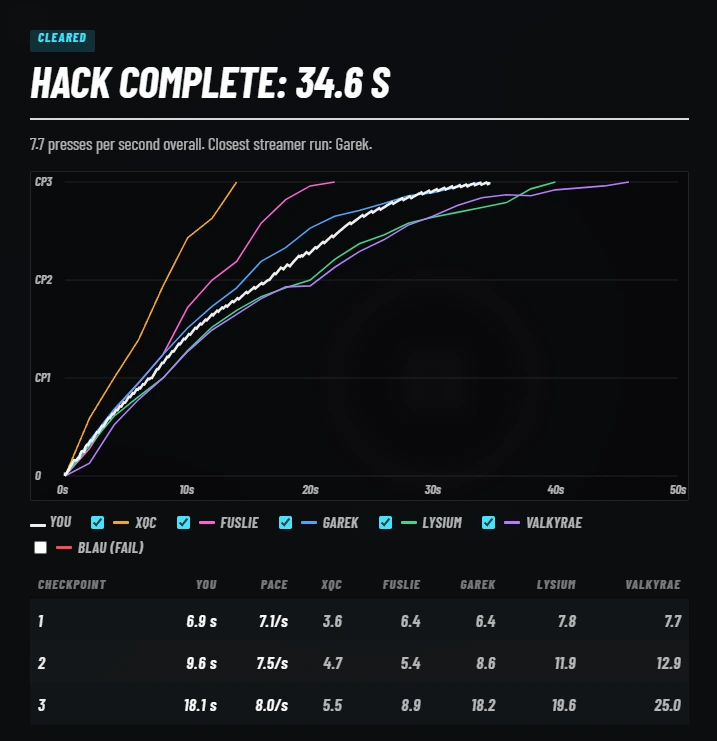
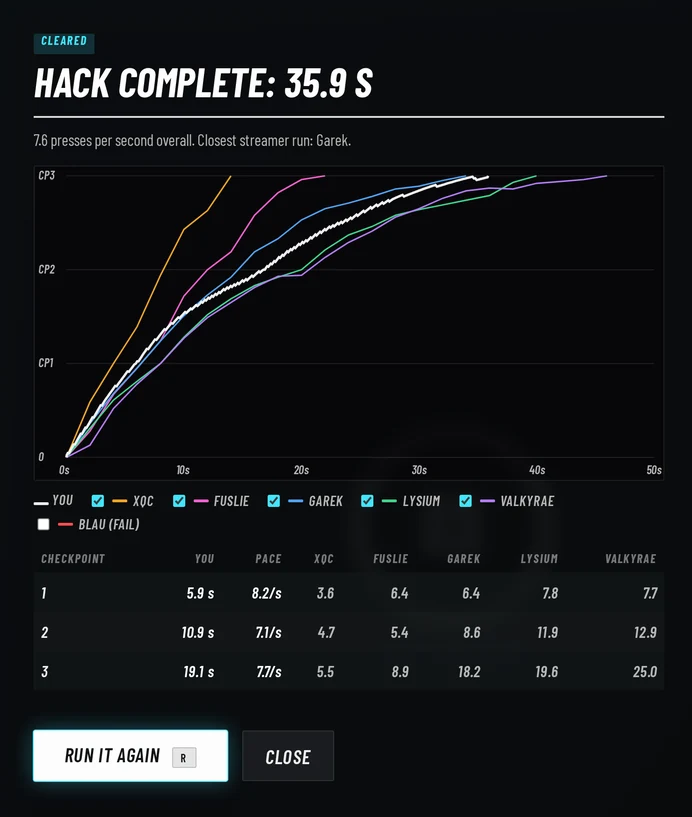
atm-hack: MAT-736 — the figure set redone at 1x and 2x
Four figures re-exported, each WebP and PNG at 1x and 2x. atm-results,
atm-progress and atm-checkpoints replace the soft 1x-only versions;
atm-attempts is new and closes the last figure the original draft asked for.
The charts are dark-themed now and label Garek, so the Gloryon gloss has
nothing left to explain — that name is gone from site/ and from the
case-study doc, and survives only in the devlog.

atm-description was re-exported too, as a tighter 386x399 crop; the old
518x399 carried a strip of game background down its left edge. 386 is the
source's native width, so it stays 1x.

atm-results needed its own sizes. At 692x817 the height cap binds before the
column does — it paints 434x512 at desktop, not 692 wide — so its sizes says
434px where the others say 692px. Measured, since image-conventions §2 is
explicit that getting this wrong is silent.

Captions: the results caption names the 35.9s clear, the progress caption
calls the fails dashed rather than flat, and the checkpoints caption softens
"for everyone" to "for almost everyone" — Fuslie's CP2 beat her CP1, so the
old line was not true.

.gitignore now ignores dev/gta-atm-media/* with one exception for
Screenshot (Gameplay).png, the 2043x1208 master every ring crop came from.
13 files ignored, that one tracked, matching dev/kumon-media and
dev/ollae-media.

Still open: no 2x for atm-ring or atm-description, both blocked on new
captures rather than on work.

diff --git a/site/projects/atm-hack.html b/site/projects/atm-hack.html
@@ -16,7 +16,7 @@
   <noscript><link rel="stylesheet" href="https://fonts.googleapis.com/css2?family=DM+Mono:wght@400;500&family=DM+Sans:ital,wght@0,400;0,500;0,700;1,400&family=DM+Serif+Display&display=swap"></noscript>
 
   <link rel="stylesheet" href="/styles/tokens.css?v=2">
-  <link rel="stylesheet" href="/styles/style.css?v=12">
+  <link rel="stylesheet" href="/styles/style.css?v=13">
 </head>
 <body>
   <div class="spotlight" aria-hidden="true"></div>
@@ -43,7 +43,7 @@
       <ul role="list" class="tags" aria-label="Tech stack">
         <li>HTML</li>
         <li>CSS</li>
-        <li>Vanilla JS</li>
+        <li>JavaScript</li>
         <li>Canvas</li>
         <li>Google Apps Script</li>
         <li>Google Sheets</li>
@@ -91,20 +91,32 @@
       <p>The UI stays close to the real one, which was less work than it sounds: NoPixel's font is Barlow, a Google Font, and the hack itself is a ring, a key cap, and three checkpoint dashes. Getting those proportions right matters more than any effect — it's the thing people recognise from stream.</p>
 
       <figure class="media-figure">
-        <img src="/assets/atm-hack/atm-description.webp" width="518" height="399" loading="lazy" decoding="async"
-             alt="The game's side panel, headed FAN-MADE HACK TRAINER above the title ATM HACK. It explains: mash E to fill the ring and clear three checkpoints before time runs out, the ring pushes back harder the fuller it gets, every checkpoint is tougher than the last, and your run is compared against streamers who passed and failed it on stream. Below, a FASTEST CLEARS · V1 heading reads &ldquo;No clears yet. Be the first.&rdquo;">
+        <picture>
+          <source type="image/webp" srcset="/assets/atm-hack/atm-description.webp">
+          <img src="/assets/atm-hack/atm-description.png"
+               width="386" height="399" loading="lazy" decoding="async"
+               alt="The game's side panel, headed FAN-MADE HACK TRAINER above the title ATM HACK. It explains: mash E to fill the ring and clear three checkpoints before time runs out, the ring pushes back harder the fuller it gets, every checkpoint is tougher than the last, and your run is compared against streamers who passed and failed it on stream. Below, a FASTEST CLEARS · V1 heading reads &ldquo;No clears yet. Be the first.&rdquo;">
+        </picture>
         <figcaption>Game instructions</figcaption>
       </figure>
 
       <p>After each run, the game compares it to the streamer runs we studied.</p>
 
       <figure class="media-figure">
-        <a class="figure-zoom" href="/assets/atm-hack/atm-results.webp" data-zoom>
+        <a class="figure-zoom" href="/assets/atm-hack/atm-results@2x.webp" data-zoom>
           <span class="sr-only">View full-size: </span>
-          <img src="/assets/atm-hack/atm-results.webp" width="717" height="741" loading="lazy" decoding="async"
-               alt="The results screen: a CLEARED tag above &ldquo;HACK COMPLETE: 34.6 S&rdquo; and the line &ldquo;7.7 presses per second overall. Closest streamer run: Garek.&rdquo; A chart plots ring progress against time from 0 to 50 seconds, with the player's white curve running through five coloured streamer curves toward CP3, and Blau's failed run unchecked in the legend. A table under it lists each checkpoint: the player's time, their pace, and the same checkpoint for xQc, Fuslie, Garek, Lysium, and Valkyrae.">
+          <picture>
+            <source type="image/webp"
+                    srcset="/assets/atm-hack/atm-results.webp 692w, /assets/atm-hack/atm-results@2x.webp 1384w"
+                    sizes="(min-width: 756px) 434px, calc(100vw - 4rem)">
+            <img src="/assets/atm-hack/atm-results.png"
+                 srcset="/assets/atm-hack/atm-results.png 692w, /assets/atm-hack/atm-results@2x.png 1384w"
+                 sizes="(min-width: 756px) 434px, calc(100vw - 4rem)"
+                 width="692" height="817" loading="lazy" decoding="async"
+                 alt="The ATM Hack results screen after Matt's 35.9-second clear. A Cleared badge and the title Hack complete: 35.9 s sit above the line: 7.6 presses per second overall, closest streamer run Garek. A chart plots progress from 0 to CP3 over 50 seconds, with Matt's white line among colored lines for xQc, Fuslie, Garek, Lysium and Valkyrae, finishing just after Garek's. Below, a table lists Matt's checkpoint times of 5.9, 10.9 and 19.1 seconds at 8.2, 7.1 and 7.7 presses per second next to each streamer's times, then Run it again and Close buttons.">
+          </picture>
         </a>
-        <figcaption>Compare results with streamers</figcaption>
+        <figcaption>The results screen after my 35.9-second clear, plotted against the streamers&rsquo; runs.</figcaption>
       </figure>
 
       <h3>Engineering</h3>
@@ -113,23 +125,39 @@
       <p>I pulled clips of seven attempts — five clears and two fails — and had Claude track how full the ring was in every frame. The pattern came out clearly. Each press adds a small chunk, the ring slides back constantly, and the slide-back gets stronger both as the ring fills and with each checkpoint passed.</p>
 
       <figure class="media-figure">
-        <a class="figure-zoom" href="/assets/atm-hack/atm-progress.webp" data-zoom>
+        <a class="figure-zoom" href="/assets/atm-hack/atm-progress@2x.webp" data-zoom>
           <span class="sr-only">View full-size: </span>
-          <img src="/assets/atm-hack/atm-progress.webp" width="777" height="401" loading="lazy" decoding="async"
-               alt="A line chart titled &ldquo;ATM hack progress over time (checkpoints cleared + current ring fill)&rdquo;, plotting progress from 0 to 3 against seconds since the hack UI appeared, out to 120 seconds. Five winning runs climb to 3.0 and stop, between 14 and 46 seconds. The two failing runs climb quickly to about 2.8 and then stay flat, wobbling just under the finish for the rest of the clip.">
+          <picture>
+            <source type="image/webp"
+                    srcset="/assets/atm-hack/atm-progress.webp 800w, /assets/atm-hack/atm-progress@2x.webp 1600w"
+                    sizes="(min-width: 756px) 692px, calc(100vw - 4rem)">
+            <img src="/assets/atm-hack/atm-progress.png"
+                 srcset="/assets/atm-hack/atm-progress.png 800w, /assets/atm-hack/atm-progress@2x.png 1600w"
+                 sizes="(min-width: 756px) 692px, calc(100vw - 4rem)"
+                 width="800" height="450" loading="lazy" decoding="async"
+                 alt="Line chart of progress over time for seven streamer clips, from 0 to CP3 across 120 seconds. Solid lines for xQc, Fuslie, Garek, Lysium and Valkyrae climb to CP3 between about 14 and 46 seconds, xQc steepest. Dashed lines for Blau and an unknown streamer climb to just under CP3, then run nearly flat for over a minute, labeled: both fails stall short of CP3 for over a minute. A legend on the right marks both as timed out.">
+          </picture>
         </a>
-        <figcaption>Seven clips. The two flat lines at the top are the fails. Gloryon is Garek's character name.</figcaption>
+        <figcaption>Seven clips. The two dashed lines that flatten out near the top are the fails.</figcaption>
       </figure>
 
       <p>That chart settles what failing actually is. Neither fail was slow: both reached the last ring quickly, then sat at 70–90% of it for more than a minute and a half while the timer ran out. I hypothesized that to beat the last checkpoint, the player must reach a specific speed.</p>
 
       <figure class="media-figure">
-        <a class="figure-zoom" href="/assets/atm-hack/atm-checkpoints.webp" data-zoom>
+        <a class="figure-zoom" href="/assets/atm-hack/atm-checkpoints@2x.webp" data-zoom>
           <span class="sr-only">View full-size: </span>
-          <img src="/assets/atm-hack/atm-checkpoints.webp" width="772" height="356" loading="lazy" decoding="async"
-               alt="A table headed &ldquo;Checkpoint times (seconds)&rdquo; with columns for player, CP1, CP2, CP3 and total. xQc 3.6, 4.7, 5.5, total 13.8. Fuslie 6.4, 5.4, 8.9, total 20.7. Gloryon 6.4, 8.6, 18.2, total 33.2. Lysium 7.8, 11.9, 19.6, total 39.3. Valkyrae 7.7, 12.9, 25.0, total 45.6. Blau 8.6, 11.6, then stalled about 100 seconds, fail. Unknown 6.0, 9.5, then stalled about 86 seconds, fail.">
+          <picture>
+            <source type="image/webp"
+                    srcset="/assets/atm-hack/atm-checkpoints.webp 800w, /assets/atm-hack/atm-checkpoints@2x.webp 1600w"
+                    sizes="(min-width: 756px) 692px, calc(100vw - 4rem)">
+            <img src="/assets/atm-hack/atm-checkpoints.png"
+                 srcset="/assets/atm-hack/atm-checkpoints.png 800w, /assets/atm-hack/atm-checkpoints@2x.png 1600w"
+                 sizes="(min-width: 756px) 692px, calc(100vw - 4rem)"
+                 width="800" height="450" loading="lazy" decoding="async"
+                 alt="Grouped bar chart of time per checkpoint for seven streamers, CP1 to CP3 in three shades of cyan. xQc 3.6, 4.7, 5.5 seconds; Fuslie 6.4, 5.4, 8.9; Garek 6.4, 8.6, 18.2; Lysium 7.8, 11.9, 19.6; Valkyrae 7.7, 12.9, 25.0; Blau 8.6, 11.6; unknown streamer 6.0, 9.5. Blau's and the unknown streamer's CP3 bars are red hatched outlines reaching the top of the chart, labeled stalled ~100 s and stalled ~86 s.">
+          </picture>
         </a>
-        <figcaption>The same seven runs as numbers. Each checkpoint costs more than the one before it, for everyone.</figcaption>
+        <figcaption>The same seven runs as numbers. Each checkpoint costs more than the one before it, for almost everyone.</figcaption>
       </figure>
 
       <h4>Listened to the keyboards</h4>
@@ -175,6 +203,23 @@
       <p>The game is launched, and the Reddit post was successful!</p>
       <p>The post brought in <strong>626 verified runs from 249 players</strong> overnight, 339 of them in a single two-hour burst, and they are still coming in. 90% of those runs cleared, and 84% of players cleared on their first try — the same range as the streamers, where 5 of 7 passed. That is the shape I wanted: most people get through it, and the last ring is where it turns frustrating.</p>
 
+
+      <figure class="media-figure">
+        <a class="figure-zoom" href="/assets/atm-hack/atm-attempts@2x.webp" data-zoom>
+          <span class="sr-only">View full-size: </span>
+          <picture>
+            <source type="image/webp"
+                    srcset="/assets/atm-hack/atm-attempts.webp 692w, /assets/atm-hack/atm-attempts@2x.webp 1384w"
+                    sizes="(min-width: 756px) 692px, calc(100vw - 4rem)">
+            <img src="/assets/atm-hack/atm-attempts.png"
+                 srcset="/assets/atm-hack/atm-attempts.png 692w, /assets/atm-hack/atm-attempts@2x.png 1384w"
+                 sizes="(min-width: 756px) 692px, calc(100vw - 4rem)"
+                 width="692" height="179" loading="lazy" decoding="async"
+                 alt="The game's Everyone's attempts panel for v1: three tiles reading 566 attempts, 508 cleared in cyan, and 58 timed out in red, above a bar about nine-tenths cyan and one-tenth red, and the line: 90% of attempts clear the hack.">
+          </picture>
+        </a>
+        <figcaption>Everyone&rsquo;s attempts as of September 19, 2026: 566 verified runs, 90% cleared.</figcaption>
+      </figure>
       <div class="embed embed--reddit">
         <blockquote class="reddit-embed-bq" data-embed-height="240">
           <a href="https://www.reddit.com/r/NoPixel/comments/1wk9xai/i_measured_streamer_footage_to_recreate_the/">I measured streamer footage to recreate the NoPixel ATM button masher hack - try it!!</a><br> by

diff --git a/docs/case-study-atm-hack.md b/docs/case-study-atm-hack.md
@@ -60,7 +60,7 @@ The UI stays close to the real one, which was less work than it sounds: NoPixel'
 
 After each run, the game compares it to the streamer runs we studied.
 
-*Figure: the results screen. Caption — "Compare results with streamers"*
+*Figure: the results screen. Caption — "The results screen after my 35.9-second clear, plotted against the streamers' runs."*
 
 ### Engineering
 
@@ -68,11 +68,11 @@ After each run, the game compares it to the streamer runs we studied.
 
 I pulled clips of seven attempts — five clears and two fails — and had Claude track how full the ring was in every frame. The pattern came out clearly. Each press adds a small chunk, the ring slides back constantly, and the slide-back gets stronger both as the ring fills and with each checkpoint passed.
 
-*Figure: progress-over-time chart. Caption — "Seven clips. The two flat lines at the top are the fails. Gloryon is Garek's character name."*
+*Figure: progress-over-time chart. Caption — "Seven clips. The two dashed lines that flatten out near the top are the fails."*
 
 That chart settles what failing actually is. Neither fail was slow: both reached the last ring quickly, then sat at 70–90% of it for more than a minute and a half while the timer ran out. I hypothesized that to beat the last checkpoint, the player must reach a specific speed.
 
-*Figure: checkpoint times table. Caption — "The same seven runs as numbers. Each checkpoint costs more than the one before it, for everyone."*
+*Figure: checkpoint times table. Caption — "The same seven runs as numbers. Each checkpoint costs more than the one before it, for almost everyone."*
 
 #### Listened to the keyboards
 
@@ -101,6 +101,8 @@ Rather than argue with the model, I became the control group. I tested out the g
 The game is launched, and the Reddit post was successful!
 
 The post brought in **626 verified runs from 249 players** overnight, 339 of them in a single two-hour burst, and they are still coming in. 90% of those runs cleared, and 84% of players cleared on their first try — the same range as the streamers, where 5 of 7 passed. That is the shape I wanted: most people get through it, and the last ring is where it turns frustrating.
+
+*Figure: the Everyone's attempts panel. Caption — "Everyone's attempts as of September 19, 2026: 566 verified runs, 90% cleared."*
 
 *Reddit embed: the r/NoPixel post, "I measured streamer footage to recreate the
 NoPixel ATM button masher hack - try it!!" by u/dolfinz95. Click-to-load —
@@ -131,32 +133,35 @@ The best part was watching the Google Sheet fill up as people from the community
 Assets live in `site/assets/atm-hack/`. All are my own charts and screenshots —
 no stream footage.
 
-| # | File | Size | Where | Zoom |
+| # | File | Size (1× / 2×) | Where | Zoom |
 |---|---|---|---|---|
-| — | `atm-ring.webp` | 1280×720 | embed poster, above the fold (`fetchpriority="high"`) | no |
-| 1 | `atm-description.webp` | 518×399 | Design | no |
-| 2 | `atm-results.webp` | 717×741 | Design | yes |
-| 3 | `atm-progress.webp` | 777×401 | Watched the ring | yes |
-| 4 | `atm-checkpoints.webp` | 772×356 | Watched the ring | yes |
-| 5 | `atm-double-click{,@2x}.{webp,png}` | 800×450, 1600×900 | Tested it on myself | yes |
+| — | `atm-ring.webp` | 1280×720 / — | embed poster, above the fold (`fetchpriority="high"`) | no |
+| 1 | `atm-description.{webp,png}` | 386×399 / — | Design | no |
+| 2 | `atm-results{,@2x}.{webp,png}` | 692×817 / 1384×1635 | Design | yes |
+| 3 | `atm-progress{,@2x}.{webp,png}` | 800×450 / 1600×900 | Watched the ring | yes |
+| 4 | `atm-checkpoints{,@2x}.{webp,png}` | 800×450 / 1600×900 | Watched the ring | yes |
+| 5 | `atm-double-click{,@2x}.{webp,png}` | 800×450 / 1600×900 | Tested it on myself | yes |
+| 6 | `atm-attempts{,@2x}.{webp,png}` | 692×179 / 1384×358 | Outcome | yes |
 
-The spectrogram is the only one with a 2× and a raster fallback; it ships as a
-`<picture>` with an 800w/1600w `srcset`. It sits on the **column** track, not
-`figure--wide` — a height-capped image in a 969px box centres at 909px while
-its caption stays at the box's left edge, which `figures.js` catches and
-`image-conventions.md` §3 forbids.
+Figures 1–6 ship as a `<picture>` with a WebP `<source>` and a PNG fallback.
+Figures 2–6 add a 1×/2× `srcset`; figure 1 has no 2× to offer, so it carries a
+single source. All sit on the **column** track, not `figure--wide` — a
+height-capped image in a 969px box centres at 909px while its caption stays at
+the box's left edge, which `figures.js` catches and `image-conventions.md` §3
+forbids.
+
+`atm-results` is the one figure whose `sizes` differs. At 692×817 the §1 height
+cap binds before the column does, so it paints 434×512 at desktop rather than
+692 wide, and its `sizes` says `434px` where the others say `692px`. Measured,
+not assumed.
 
 ### Still to make
 
-- **The "Everyone's attempts" tally and the leaderboard.** The last figure the
-  original draft asked for. The Outcome section is written without it.
+- Nothing outstanding. The "Everyone's attempts" panel was the last figure the
+  original draft asked for; it landed as figure 6 on 2026-09-19.
 
 ### Known gaps
 
-- **No 2× for figures 1–4 or the embed poster.** Each was exported at its final
-  size, so a 2× would be an upscale. `atm-results` is the one worth
-  regenerating: it paints at 692px from a 717px source, so it is effectively 1×
-  and soft on a retina display.
-- **Figures 3 and 4 label Garek "Gloryon"**, his RP character name, which the
-  shipped game does not use. Glossed rather than regenerated: the caption on
-  figure 3 states it, and *Checked it* carries "Garek's (Gloryon)".
+- **No 2× for `atm-description` or the embed poster.** Both are their sources'
+  native size — 386×399 and a 1280×720 crop of a 2043×1208 master — so a 2×
+  would be an upscale. Everything else on the page ships one.
